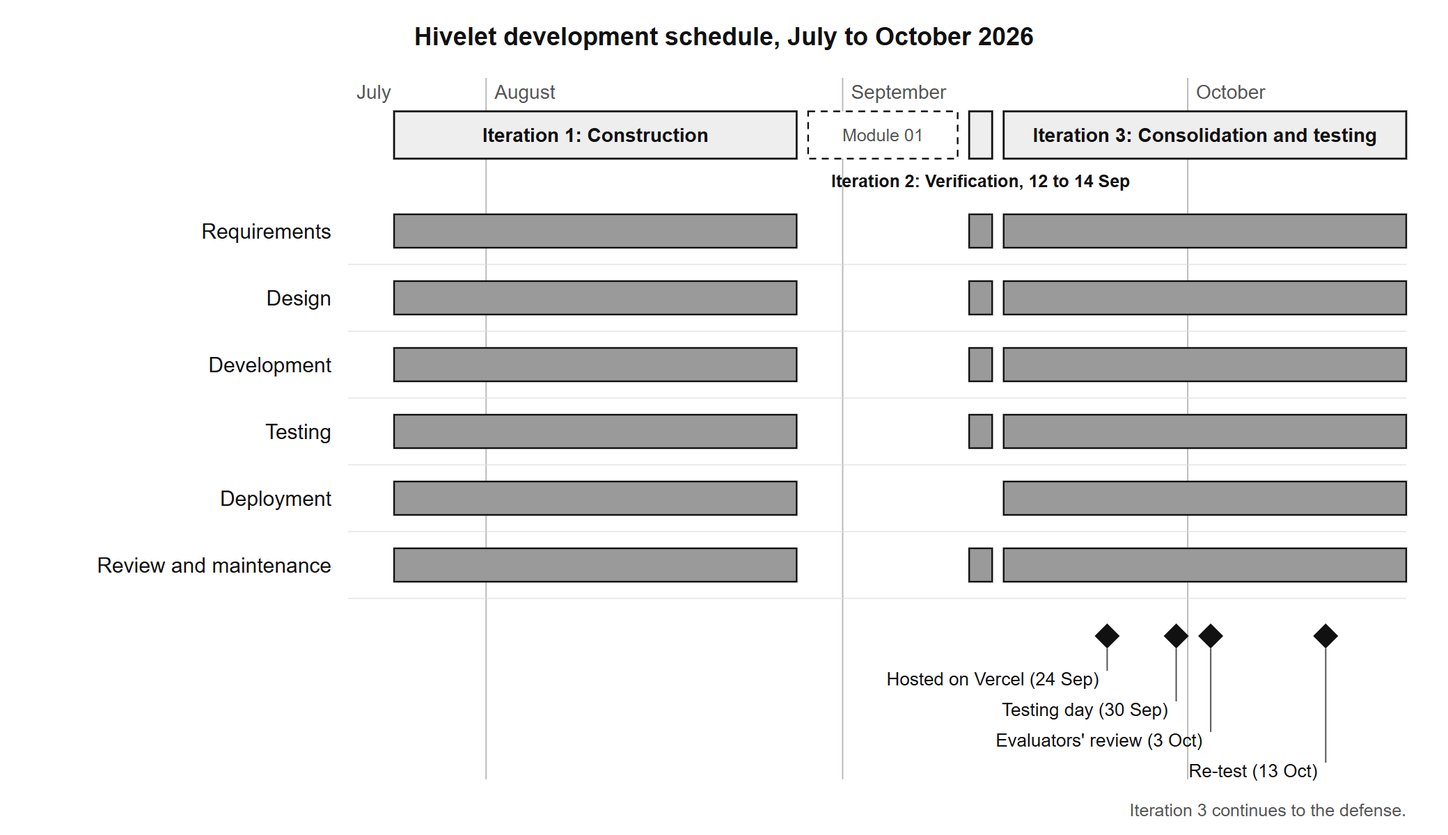
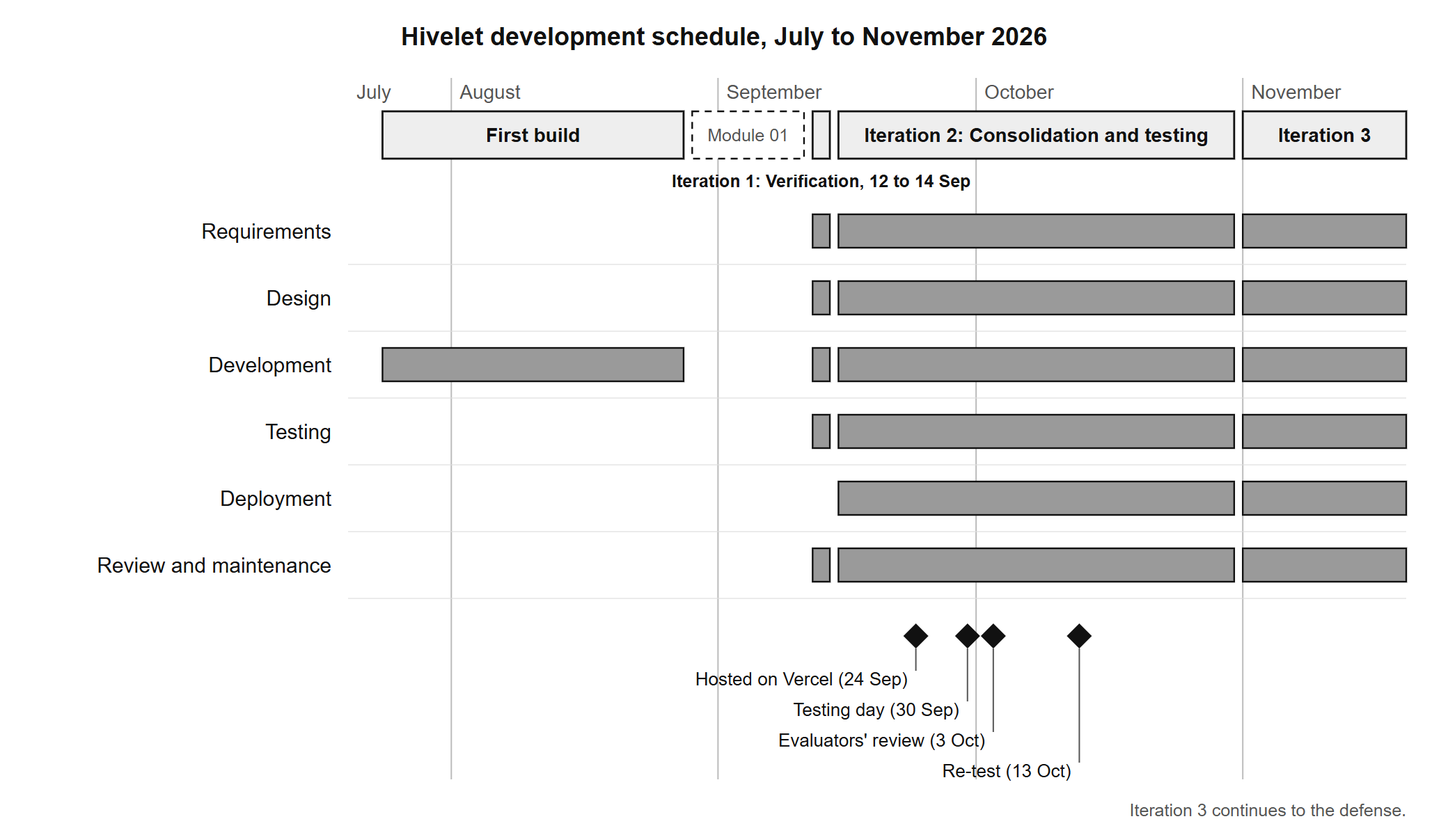
The paper's three iterations now end with the redesign
Sean, 2 Nov 2026: the first build is no longer counted as an iteration, the old second and third become the first and second, and the glass redesign is the third. The build stays in Chapter 4 and Table M-19 as what the iterations started from. Every test and evaluation result is unchanged and stays in Iteration 2, and Chapter 4 says the functions evaluated were not changed. New screenshots and the last batch of tenants and prospects are pending as P16 and P17.

diff --git a/docs/FINAL MANUSCRIPT/APPENDIX_M_CHAPTER_4_EVIDENCE.md b/docs/FINAL MANUSCRIPT/APPENDIX_M_CHAPTER_4_EVIDENCE.md
@@ -355,16 +355,16 @@ characteristic, and every change made in response to the evaluation.
 | Survey, 4 October 2026 | The technical evaluator rated 3 a failed request being handled without presenting incorrect data | The same defect as walkthrough step 23b (₱0 instead of "—"): not reproduced on 1 October; to be tested again on the owner's laptop | Reliability |
 | Survey, 30 September 2026 | A tenant asked for the deposit paid and the electric bill to be shown | Since 13 October 2026 the tenant's Payments and billing page shows the deposit held for their tenancy; the electric bill stays outside the system, since each tenant pays the electric company directly (Section 4.2.4) | Functional Suitability |
 
-**Table M-19.** The three iterations, phase by phase (Chapter 4's Table 6A before 12 October 2026; summarized in Chapter 4, Section 4.2.1)
+**Table M-19.** The three iterations, phase by phase (Chapter 4's Table 6A before 12 October 2026; summarized in Chapter 4, Section 4.2.1). The first working version they started from was built from 24 July to 28 August 2026 (95 commits): the public site, the tenant and owner portals, the ledgers, repairs, inquiries, notifications and audit trail, with 937 income rows and 1,327 expense allocations transferred from the owner's workbook.
 
-| Phase (Section 3.2) | Iteration 1: Construction (24 Jul to 28 Aug 2026, 95 commits) | Iteration 2: Verification and correction (12 to 14 Sep 2026, 87 commits) | Iteration 3: Consolidation and testing (15 Sep 2026 onward, 1,447 commits to 9 Oct) |
+| Phase (Section 3.2) | Iteration 1: Verification and correction (12 to 14 Sep 2026, 87 commits) | Iteration 2: Consolidation and testing (15 Sep to 31 Oct 2026, 1,625 commits) | Iteration 3: Interface redesign (1 Nov 2026 onward) |
 | :--- | :--- | :--- | :--- |
-| Requirements | The owner's workbook (Monthly Income and Monthly Expenses) and the interviews and observation of Section 4.1 taken as the baseline; payments cash only | The owner settled four questions on 13 September: 33 units, no grace period, no automatic rent increase, and tenants recorded without needing an email address | The owner's answers of 17 and 19 to 20 September: the advance is the deposit, rent and water stay one bill, and a rate for each of the 33 units; acknowledgement receipts for payments with no invoice number (1 October) |
-| Design | Screens for the visitor, the tenant and the owner over one permission matrix; the ledgers laid out as her workbook is | The business rule register rebuilt, 49 rules each with its evidence; the automatic rent increase removed from scope | The owner's review on a phone (23 September) and the design rules the screens now follow; the tenant and owner overviews reworked |
-| Development | Public site, tenant and owner portals, ledgers, repairs, inquiries, notifications and audit trail; 937 income rows and 1,327 expense allocations transferred | Fifteen defects in behavior corrected, among them a partial payment that left no debt and cash recorded with nothing written to the books; the Excel downloads | Adyen with GCash working end to end on the test account (26 September); updates checked every two seconds; offline reading; the breached-password check (7 October) |
-| Testing | Checked by demonstration only; no automated check existed | Seven automated check suites, over 100 assertions, each defect covered by one | The screen-versus-database audit (26 and 29 September, six defects); 20 suites (29 September); the testing day with the owner and three tenants (30 September); the technical evaluators' review (3 October) |
-| Deployment | Run from the team's machines against the live database | Unchanged | Hosted on Vercel from 24 September; tenant accounts prepared on 29 September; in use beside the owner's own records (Table 25) |
-| Review | The Module 01 submission, whose documents became Iteration 2's input | 22 recorded errors in the submitted documents corrected; four standing rules for how the team works | The technical evaluators' 14 comments, all acted on by 5 October (Table 23); the ISO/IEC 25010 survey (Section 4.4) |
+| Requirements | The owner settled four questions on 13 September: 33 units, no grace period, no automatic rent increase, and tenants recorded without needing an email address | The owner's answers of 17 and 19 to 20 September: the advance is the deposit, rent and water stay one bill, and a rate for each of the 33 units; acknowledgement receipts for payments with no invoice number (1 October) | The team's review of the deployed screens on a phone and a computer; no new functional requirement |
+| Design | The business rule register rebuilt, 49 rules each with its evidence; the automatic rent increase removed from scope | The owner's review on a phone (23 September) and the design rules the screens now follow; the tenant and owner overviews reworked | Translucent glass surfaces over a light green page, in light and dark themes; boxes kept for what needs attention and what is looked for at a glance; sign in, inquiry and conversation joined in one screen |
+| Development | Fifteen defects in behavior corrected, among them a partial payment that left no debt and cash recorded with nothing written to the books; the Excel downloads | Adyen with GCash working end to end on the test account (26 September); updates checked every two seconds; offline reading; the breached-password check (7 October) | The restyle of every screen; an inquiry the owner deleted now says so to its sender; a signed-in account is sent from the inquiry pages to its own portal |
+| Testing | Seven automated check suites, over 100 assertions, each defect covered by one | The screen-versus-database audit (26 and 29 September, six defects); 20 suites (29 September); the testing day with the owner and three tenants (30 September); the technical evaluators' review (3 October) | The 21 automated check suites rerun; the screens checked in light and dark at phone and desktop width. No new evaluation, since the functions evaluated in Iteration 2 were not changed |
+| Deployment | Unchanged | Hosted on Vercel from 24 September; tenant accounts prepared on 29 September; in use beside the owner's own records (Table 25) | The same site, with no change to the database |
+| Review | 22 recorded errors in the submitted documents corrected; four standing rules for how the team works | The technical evaluators' 14 comments, all acted on by 5 October (Table 23); the ISO/IEC 25010 survey (Section 4.4) | The team's review of the screens |
 
 **Table M-20.** Quality in use (30 September 2026) (Chapter 4's Table 22B before 12 October 2026; summarized in Chapter 4, Section 4.4.5)
 

diff --git a/FINAL/appendices/APPENDIX_M_CHAPTER_4_EVIDENCE.md b/FINAL/appendices/APPENDIX_M_CHAPTER_4_EVIDENCE.md
@@ -349,16 +349,16 @@ characteristic, and every change made in response to the evaluation.
 | Survey, 4 October 2026 | The technical evaluator rated 3 a failed request being handled without presenting incorrect data | The same defect as walkthrough step 23b (₱0 instead of "—"): not reproduced on 1 October; to be tested again on the owner's laptop | Reliability |
 | Survey, 30 September 2026 | A tenant asked for the deposit paid and the electric bill to be shown | Since 13 October 2026 the tenant's Payments and billing page shows the deposit held for their tenancy; the electric bill stays outside the system, since each tenant pays the electric company directly (Section 4.2.4) | Functional Suitability |
 
-**Table M-19.** The three iterations, phase by phase (summarized in Chapter 4, Section 4.2.1)
+**Table M-19.** The three iterations, phase by phase (summarized in Chapter 4, Section 4.2.1). The first working version they started from was built from 24 July to 28 August 2026 (95 commits): the public site, the tenant and owner portals, the ledgers, repairs, inquiries, notifications and audit trail, with 937 income rows and 1,327 expense allocations transferred from the owner's workbook.
 
-| Phase (Section 3.2) | Iteration 1: Construction (24 Jul to 28 Aug 2026, 95 commits) | Iteration 2: Verification and correction (12 to 14 Sep 2026, 87 commits) | Iteration 3: Consolidation and testing (15 Sep 2026 onward, 1,447 commits to 9 Oct) |
+| Phase (Section 3.2) | Iteration 1: Verification and correction (12 to 14 Sep 2026, 87 commits) | Iteration 2: Consolidation and testing (15 Sep to 31 Oct 2026, 1,625 commits) | Iteration 3: Interface redesign (1 Nov 2026 onward) |
 | :--- | :--- | :--- | :--- |
-| Requirements | The owner's workbook (Monthly Income and Monthly Expenses) and the interviews and observation of Section 4.1 taken as the baseline; payments cash only | The owner settled four questions on 13 September: 33 units, no grace period, no automatic rent increase, and tenants recorded without needing an email address | The owner's answers of 17 and 19 to 20 September: the advance is the deposit, rent and water stay one bill, and a rate for each of the 33 units; acknowledgement receipts for payments with no invoice number (1 October) |
-| Design | Screens for the visitor, the tenant and the owner over one permission matrix; the ledgers laid out as her workbook is | The business rule register rebuilt, 49 rules each with its evidence; the automatic rent increase removed from scope | The owner's review on a phone (23 September) and the design rules the screens now follow; the tenant and owner overviews reworked |
-| Development | Public site, tenant and owner portals, ledgers, repairs, inquiries, notifications and audit trail; 937 income rows and 1,327 expense allocations transferred | Fifteen defects in behavior corrected, among them a partial payment that left no debt and cash recorded with nothing written to the books; the Excel downloads | Adyen with GCash working end to end on the test account (26 September); updates checked every two seconds; offline reading; the breached-password check (7 October) |
-| Testing | Checked by demonstration only; no automated check existed | Seven automated check suites, over 100 assertions, each defect covered by one | The screen-versus-database audit (26 and 29 September, six defects); 20 suites (29 September); the testing day with the owner and three tenants (30 September); the technical evaluators' review (3 October) |
-| Deployment | Run from the team's machines against the live database | Unchanged | Hosted on Vercel from 24 September; tenant accounts prepared on 29 September; in use beside the owner's own records (Table 4-22) |
-| Review | The Module 01 submission, whose documents became Iteration 2's input | 22 recorded errors in the submitted documents corrected; four standing rules for how the team works | The technical evaluators' 14 comments, all acted on by 5 October (Table 4-19); the ISO/IEC 25010 survey (Section 4.4) |
+| Requirements | The owner settled four questions on 13 September: 33 units, no grace period, no automatic rent increase, and tenants recorded without needing an email address | The owner's answers of 17 and 19 to 20 September: the advance is the deposit, rent and water stay one bill, and a rate for each of the 33 units; acknowledgement receipts for payments with no invoice number (1 October) | The team's review of the deployed screens on a phone and a computer; no new functional requirement |
+| Design | The business rule register rebuilt, 49 rules each with its evidence; the automatic rent increase removed from scope | The owner's review on a phone (23 September) and the design rules the screens now follow; the tenant and owner overviews reworked | Translucent glass surfaces over a light green page, in light and dark themes; boxes kept for what needs attention and what is looked for at a glance; sign in, inquiry and conversation joined in one screen |
+| Development | Fifteen defects in behavior corrected, among them a partial payment that left no debt and cash recorded with nothing written to the books; the Excel downloads | Adyen with GCash working end to end on the test account (26 September); updates checked every two seconds; offline reading; the breached-password check (7 October) | The restyle of every screen; an inquiry the owner deleted now says so to its sender; a signed-in account is sent from the inquiry pages to its own portal |
+| Testing | Seven automated check suites, over 100 assertions, each defect covered by one | The screen-versus-database audit (26 and 29 September, six defects); 20 suites (29 September); the testing day with the owner and three tenants (30 September); the technical evaluators' review (3 October) | The 21 automated check suites rerun; the screens checked in light and dark at phone and desktop width. No new evaluation, since the functions evaluated in Iteration 2 were not changed |
+| Deployment | Unchanged | Hosted on Vercel from 24 September; tenant accounts prepared on 29 September; in use beside the owner's own records (Table 4-22) | The same site, with no change to the database |
+| Review | 22 recorded errors in the submitted documents corrected; four standing rules for how the team works | The technical evaluators' 14 comments, all acted on by 5 October (Table 4-19); the ISO/IEC 25010 survey (Section 4.4) | The team's review of the screens |
 
 **Table M-20.** Quality in use (30 September 2026) (summarized in Chapter 4, Section 4.4.5)
 

diff --git a/FINAL/05_CHAPTER_4_RESULTS_AND_DISCUSSION.md b/FINAL/05_CHAPTER_4_RESULTS_AND_DISCUSSION.md
@@ -117,15 +117,17 @@ real tenant's name or payment appears in any figure.
 
 ### 4.2.1 System Architecture and Technology Stack
 
-The system was built in three Agile iterations (Section 3.2). The first (24 July to 28 August 2026)
-built a working system and transferred the owner's records into it. The second (12 to 14 September)
-checked the system and its documents against each other, corrected 22 recorded errors and added
-automated checks. The third (15 September to the defense) took the owner's answers, put the system
-in her and her tenants' hands, and refined it from their feedback, the testing and the evaluation.
-Appendix M, Table M-19, sets out what each iteration did in each phase of Section 3.2. Each was tested
-and reviewed by the means available to it; the formal evaluation against ISO/IEC 25010 was carried
-out once, in the third, because Section 3.3 places it in actual use. Table 4-4 lists the technology
-used.
+A first working system was built from 24 July to 28 August 2026, and the owner's records were
+transferred into it. It was then developed in three Agile iterations (Section 3.2). The first (12 to
+14 September) checked the system and its documents against each other, corrected 22 recorded errors
+and added automated checks. The second (15 September to 31 October) took the owner's answers, put the
+system in her and her tenants' hands, and refined it from their feedback, the testing and the
+evaluation. The third (from 1 November) redesigned the look of the screens and joined the sign-in and
+inquiry pages into one screen. The functions tested and evaluated were not changed, so the results
+of the second iteration stand. Appendix M, Table M-19, sets out what each iteration did in each phase
+of Section 3.2. Each was tested and reviewed by the means available to it; the formal evaluation
+against ISO/IEC 25010 was carried out once, in the second, because Section 3.3 places it in actual
+use. Table 4-4 lists the technology used.
 
 **Table 4-4.** Technology stack of the developed system
 

diff --git a/docs/FINAL MANUSCRIPT/CHAPTER_4_RESULTS_AND_DISCUSSION.md b/docs/FINAL MANUSCRIPT/CHAPTER_4_RESULTS_AND_DISCUSSION.md
@@ -129,15 +129,17 @@ real tenant's name or payment appears in any figure.
 
 ### 4.2.1 System Architecture and Technology Stack
 
-The system was built in three Agile iterations (Section 3.2). The first (24 July to 28 August 2026)
-built a working system and transferred the owner's records into it. The second (12 to 14 September)
-checked the system and its documents against each other, corrected 22 recorded errors and added
-automated checks. The third (15 September to the defense) took the owner's answers, put the system
-in her and her tenants' hands, and refined it from their feedback, the testing and the evaluation.
-Appendix M, Table M-19, sets out what each iteration did in each phase of Section 3.2. Each was tested
-and reviewed by the means available to it; the formal evaluation against ISO/IEC 25010 was carried
-out once, in the third, because Section 3.3 places it in actual use. Table 7 lists the technology
-used.
+A first working system was built from 24 July to 28 August 2026, and the owner's records were
+transferred into it. It was then developed in three Agile iterations (Section 3.2). The first (12 to
+14 September) checked the system and its documents against each other, corrected 22 recorded errors
+and added automated checks. The second (15 September to 31 October) took the owner's answers, put the
+system in her and her tenants' hands, and refined it from their feedback, the testing and the
+evaluation. The third (from 1 November) redesigned the look of the screens and joined the sign-in and
+inquiry pages into one screen. The functions tested and evaluated were not changed, so the results
+of the second iteration stand. Appendix M, Table M-19, sets out what each iteration did in each phase
+of Section 3.2. Each was tested and reviewed by the means available to it; the formal evaluation
+against ISO/IEC 25010 was carried out once, in the second, because Section 3.3 places it in actual
+use. Table 7 lists the technology used.
 
 **Table 7.** Technology stack of the developed system
 

diff --git a/FINAL/QUESTIONS_TO_FINALIZE.md b/FINAL/QUESTIONS_TO_FINALIZE.md
@@ -24,6 +24,9 @@ Section 1.**
 | P14 | ~~Done 18 Oct~~ **The owner's September and October receipts.** Her records in the system stop at August (15 receipts that month, none since), so the Overview reads "Not entered yet" for October and four tenants (1a, 1c, 2c, F1) see an amount due for a period her workbook had not marked paid at the end of August. Entering them **on Monthly Income** settles those bills; an import does not (B-107) | Sean, 18 Oct: the owners enter them themselves on Monthly Income when the time comes |
 | P15 | ~~Run migration 082~~ **Done 13 Oct (082 and 083).** (B-107): two tenants, 1d and F2B, are shown an overdue amount for August, which they paid | Found in the audit, 13 Oct. For Sean, before the defense |
 
+| P16 | **New screenshots for the paper**: Figures 10 to 14 and every other figure of a screen show the design before Iteration 3 (the glass redesign of 1 to 2 November) | Retake once the design is final, with sample tenants only, then replace the images in the manuscript |
+| P17 | **The last batch of tenants and prospects** (Sean, 2 Nov 2026): their results go into Sections 4.3 and 4.4, and Iteration 3's Review row in Table M-19 | Waiting for the batch. The tests and evaluators already reported stay as they are |
+
 ## 2. The answers, and what each changed
 
 **Who is who.** Mrs. Fe Galang Da Silva owns the business; Michelle, Lloyd's mother, is the landlady

diff --git a/FINAL/08_APPENDICES.md b/FINAL/08_APPENDICES.md
@@ -8,7 +8,7 @@ Chapter 4 cites K, M, N and O by letter, so those letters must not change.
 | :--- | :--- | :--- | :--- |
 | A | Letter of Request | The signed letter to the owner. **[TO DO: scan it in; the manuscript has the heading only]** | The team's copy |
 | B | Appointments | The adviser appointment papers. **[TO DO: scan them in; the manuscript has the heading only]** | The team's copies |
-| C | Gantt Chart | The schedule as it ran: the three iterations, the Module 01 gap, and the dated events | `FINAL/appendices/APPENDIX_C_GANTT_CHART.md` |
+| C | Gantt Chart | The schedule as it ran: the first build, the three iterations, the Module 01 gap, and the dated events | `FINAL/appendices/APPENDIX_C_GANTT_CHART.md` |
 | D | Context Diagram | The as-built context diagram, the same image as Figure 4-3 | `docs/FINAL MANUSCRIPT/figures/figure-6-context-diagram.png` |
 | E | Data Flow Diagram (Level 1) | The as-built level 1 diagram, the same image as Figure 4-4 | `docs/FINAL MANUSCRIPT/figures/figure-7-data-flow-level-1.png` |
 | F | Data Flow Diagram (Child Diagrams) | Processes 1.0, 3.0, 4.0 and 5.0 opened into their steps | `FINAL/appendices/APPENDIX_F_CHILD_DATA_FLOW_DIAGRAMS.md` |

diff --git a/FINAL/_src/APPENDICES.md b/FINAL/_src/APPENDICES.md
@@ -8,7 +8,7 @@ Chapter 4 cites K, M, N and O by letter, so those letters must not change.
 | :--- | :--- | :--- | :--- |
 | A | Letter of Request | The signed letter to the owner. **[TO DO: scan it in; the manuscript has the heading only]** | The team's copy |
 | B | Appointments | The adviser appointment papers. **[TO DO: scan them in; the manuscript has the heading only]** | The team's copies |
-| C | Gantt Chart | The schedule as it ran: the three iterations, the Module 01 gap, and the dated events | `FINAL/appendices/APPENDIX_C_GANTT_CHART.md` |
+| C | Gantt Chart | The schedule as it ran: the first build, the three iterations, the Module 01 gap, and the dated events | `FINAL/appendices/APPENDIX_C_GANTT_CHART.md` |
 | D | Context Diagram | The as-built context diagram, the same image as Figure 6 | `docs/FINAL MANUSCRIPT/figures/figure-6-context-diagram.png` |
 | E | Data Flow Diagram (Level 1) | The as-built level 1 diagram, the same image as Figure 7 | `docs/FINAL MANUSCRIPT/figures/figure-7-data-flow-level-1.png` |
 | F | Data Flow Diagram (Child Diagrams) | Processes 1.0, 3.0, 4.0 and 5.0 opened into their steps | `FINAL/appendices/APPENDIX_F_CHILD_DATA_FLOW_DIAGRAMS.md` |

diff --git a/FINAL/06_CHAPTER_5_SUMMARY_CONCLUSIONS_AND_RECOMMENDATIONS.md b/FINAL/06_CHAPTER_5_SUMMARY_CONCLUSIONS_AND_RECOMMENDATIONS.md
@@ -10,7 +10,7 @@ Small boarding houses that run on spreadsheets, paper receipts and messages are 
 property management systems on the market, which assume larger operations. This study designed,
 developed and evaluated Hivelet, a web-based apartment management system delivered as a Progressive
 Web Application, for the Fe Galang Da Silva Boarding House, a 33-unit property in Legazpi City. The
-system was built in three Agile iterations with Vue, Express and PostgreSQL, pilot tested at the unit
+system was developed in three Agile iterations with Vue, Express and PostgreSQL, pilot tested at the unit
 and integration, system and acceptance levels, and evaluated on the eight characteristics of ISO/IEC
 25010:2011 by the owner, three tenants, a prospective tenant and five technical evaluators. The results
 are summarized below in the order of the specific objectives.

diff --git a/docs/FINAL MANUSCRIPT/CHAPTER_5_SUMMARY_CONCLUSIONS_RECOMMENDATIONS.md b/docs/FINAL MANUSCRIPT/CHAPTER_5_SUMMARY_CONCLUSIONS_RECOMMENDATIONS.md
@@ -18,7 +18,7 @@ Small boarding houses that run on spreadsheets, paper receipts and messages are 
 property management systems on the market, which assume larger operations. This study designed,
 developed and evaluated Hivelet, a web-based apartment management system delivered as a Progressive
 Web Application, for the Fe Galang Da Silva Boarding House, a 33-unit property in Legazpi City. The
-system was built in three Agile iterations with Vue, Express and PostgreSQL, pilot tested at the unit
+system was developed in three Agile iterations with Vue, Express and PostgreSQL, pilot tested at the unit
 and integration, system and acceptance levels, and evaluated on the eight characteristics of ISO/IEC
 25010:2011 by the owner, three tenants, a prospective tenant and five technical evaluators. The results
 are summarized below in the order of the specific objectives.

diff --git a/docs/FINAL MANUSCRIPT/ABSTRACT.md b/docs/FINAL MANUSCRIPT/ABSTRACT.md
@@ -11,7 +11,7 @@ This study designed, developed and evaluated Hivelet, a web-based apartment mana
 delivered as a Progressive Web Application, for the Fe Galang Da Silva Boarding House, a 33-unit
 property in Legazpi City. The owner's existing practices were analyzed, and her own records,
 937 income rows and 1,327 expense allocations, were transferred into the system, which exposed
-problems the spreadsheet had hidden. The system was built in three Agile iterations with Vue,
+problems the spreadsheet had hidden. The system was developed in three Agile iterations with Vue,
 Express and PostgreSQL, and provides tenant and room management, inquiries about units, financial
 tracking with optional GCash payment through Adyen, maintenance requests with notifications,
 role-based access control, and installation from the browser on a phone or computer, without an app

diff --git a/FINAL/01_ABSTRACT.md b/FINAL/01_ABSTRACT.md
@@ -6,7 +6,7 @@ This study designed, developed and evaluated Hivelet, a web-based apartment mana
 delivered as a Progressive Web Application, for the Fe Galang Da Silva Boarding House, a 33-unit
 property in Legazpi City. The owner's existing practices were analyzed, and her own records,
 937 income rows and 1,327 expense allocations, were transferred into the system, which exposed
-problems the spreadsheet had hidden. The system was built in three Agile iterations with Vue,
+problems the spreadsheet had hidden. The system was developed in three Agile iterations with Vue,
 Express and PostgreSQL, and provides tenant and room management, inquiries about units, financial
 tracking with optional GCash payment through Adyen, maintenance requests with notifications,
 role-based access control, and installation from the browser on a phone or computer, without an app

diff --git a/FINAL/appendices/APPENDIX_I_INITIAL_DESIGN.md b/FINAL/appendices/APPENDIX_I_INITIAL_DESIGN.md
@@ -1,9 +1,9 @@
 # APPENDIX I: INITIAL DESIGN
 
 The interface was prototyped directly in code (Section 3.1.1), so the initial design is the first
-working version of the system, as it stood at the end of the first iteration on 28 August 2026.
+working version of the system, as it stood on 28 August 2026, before the first iteration.
 Figures I-1 to I-4 show four of its screens, with sample tenants. They differ from the system as
-built (Figures 4-7 to 4-11): the second iteration removed the automatic rent increase marked beside each
+built (Figures 4-7 to 4-11): the first iteration removed the automatic rent increase marked beside each
 tenant, which the owner does not apply, and corrected the number of units on the public page
 (Appendix M, Table M-19). The owner's financial screens of that version are not shown, because they
 carry figures from her records.
